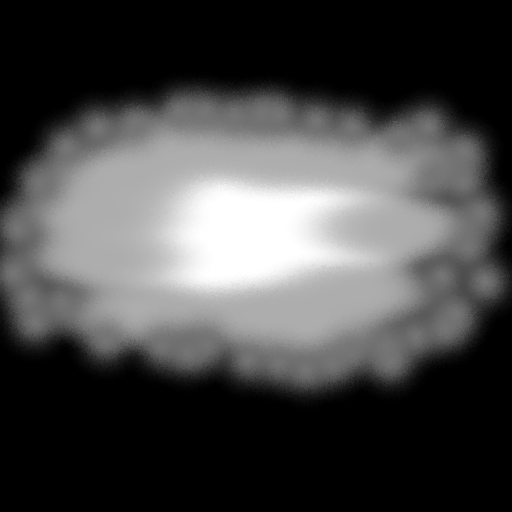
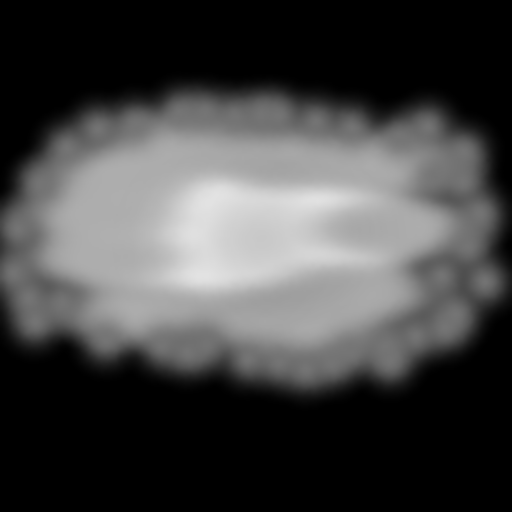
Proper heat reflection

Changed region(s): [[0.3438, 0.3438, 0.6562, 0.5938]]

diff --git a/Demo/scene.cpp b/Demo/scene.cpp
@@ -5,7 +5,8 @@
 #include "scene.h"
 #include <string>
 #include <sstream>
-#include <math.h>
+#include <ctgmath>
+#include <cmath>
 #include <iostream>
 #include "CGJengine.h"
 #include "shaders.h"
@@ -179,7 +180,7 @@ void setupScene(){
     auto heatShader = ResourceManager::getInstance()->getShader(HEAT_SHADER);
     auto hazeEmitter = ResourceManager::Factory::createParticleEmmiter(HEAT_EMITTER, pool, heatShader, helperFBO->getTexture(),
                                                                        Vec3(0.0f, 1e-8f, 0.0f), Vec3(0.0f, 0.0f, 3e-5f),
-                                                                       Vec3(0.0f, 0.7f, 6.1f), 0.002, 0.0f);
+                                                                       Vec3(0.0f, 0.3f, 6.4f), 0.002, 0.0f);
     hazeEmitter->setRandomAcceleration(Vec3(4e-8f, 3e-10f, 1e-12f));
     hazeEmitter->setParticleLifeDecayRate(5e-5f);
     hazeEmitter->setProcessingLevel(HEAT_HAZE_LEVEL);
@@ -191,17 +192,29 @@ void setupScene(){
 
     /*Place the heat reflection (Car exhaust)*/
     auto reflectionTexture = ResourceManager::Factory::createTexture("res/heatReflection.png");
-    auto reflectionNode = new SceneNode("reflection", quad, rm->getShader(HEAT_SPOT_REFLECTION_SHADER));
+    auto mirrorShader = rm->getShader(HEAT_SPOT_REFLECTION_SHADER);
+    auto reflectionNode = new SceneNode("reflection", quad, mirrorShader);
     reflectionNode->setProcessingLevel(REFLECTIONS_LEVEL);
-    reflectionNode->translate(0.0f, -0.1f, 6.0f);
+    reflectionNode->translate(0.0f, -0.1f, 6.2f);
     reflectionNode->rotate(1.0f, 0.0f, 0.0f, -PI/2.0f);
-    reflectionNode->scale(1.7f, 1.7f, 1.0f);
+    reflectionNode->scale(2.0f, 2.0f, 1.0f);
+    GLint reflectedViewLoc = mirrorShader->getUniformLocation("reflectionView");
+    GLint timeLoc = mirrorShader->getUniformLocation("time");
     reflectionNode->setPreDraw([=](){
         glActiveTexture(GL_TEXTURE0);
         reflectionTexture->bind();
         glActiveTexture(GL_TEXTURE1);
         reflectionFBO->bindTexture();
         glActiveTexture(GL_TEXTURE0);
+        Mat4 rView = scene->getCamera()->getReflectedViewMatrix();
+        glUniformMatrix4fv(reflectedViewLoc, 1, GL_FALSE, glm::value_ptr(rView));
+    });
+    reflectionNode->setUpdateCallback([=](int dt){
+        static float time = 0.0f;
+        time = time + dt/20000.0f;
+        time = time - (int)time;
+        mirrorShader->use();
+        glUniform1f(timeLoc,time);
     });
 
     carNode->addChild(reflectionNode);

diff --git a/Demo/shaders.cpp b/Demo/shaders.cpp
@@ -122,10 +122,10 @@ void loadShaders(){
     ViewLocation = heatRShader->getUniformLocation("View");
     ProjectionLocation = heatRShader->getUniformLocation("Projection");
     GLint textureLoc = glGetUniformLocation(heatRShader->getShader(), "map");
-    GLint environmentLoc = glGetUniformLocation(heatRShader->getShader(), "environment");
+    GLint mirrorLoc = glGetUniformLocation(heatRShader->getShader(), "mirror");
     heatRShader->use();
     glUniform1i(textureLoc, 0);
-    glUniform1i(environmentLoc, 1);
+    glUniform1i(mirrorLoc, 1);
     heatRShader->setMVPFunction([=](const Mat4& M, const Mat4& V, const Mat4& P) {
         glUniformMatrix4fv(ModelLocation, 1, GL_FALSE, glm::value_ptr(M));
         glUniformMatrix4fv(ViewLocation, 1, GL_FALSE, glm::value_ptr(V));

diff --git a/CGJEngine/Cameras/Camera.cpp b/CGJEngine/Cameras/Camera.cpp
@@ -43,16 +43,19 @@ Vec3 Camera::getPosition() {
     return -d * rotMat;
 }
 
+Mat4 Camera::getReflectedViewMatrix() {
+    Vec3 N = _reflectionPlaneN;
+    Vec3 P = _reflectionPlaneP;
+    float D = glm::dot(-P, N);
+    Mat4 reflectionM = getReflectionMatrix(N, D);
+    return produceViewMatrix()*reflectionM;
+}
+
 Mat4 Camera::getViewMatrix() {
     if(!_reflected)
         return produceViewMatrix();
-    else{
-        Vec3 N = _reflectionPlaneN;
-        Vec3 P = _reflectionPlaneP;
-        float D = glm::dot(-P, N);
-        Mat4 reflectionM = getReflectionMatrix(N, D);
-        return produceViewMatrix()*reflectionM;
-    }
+    else
+        return getReflectedViewMatrix();
 }
 
 Mat4 Camera::getReflectionMatrix(const Vec3 &N, float D) const {

diff --git a/CGJEngine/headers/Camera.h b/CGJEngine/headers/Camera.h
@@ -34,6 +34,7 @@ public:
     Mat4 getProjectionMatrix();
     Quat getBillboardOrientation();
     Mat4 getViewMatrix();
+    Mat4 getReflectedViewMatrix();
     virtual void move(float x, float y, float z)=0;
     virtual void changeOrientation(float yaw, float pitch, float roll)=0;
     virtual void resize(int x, int y);
